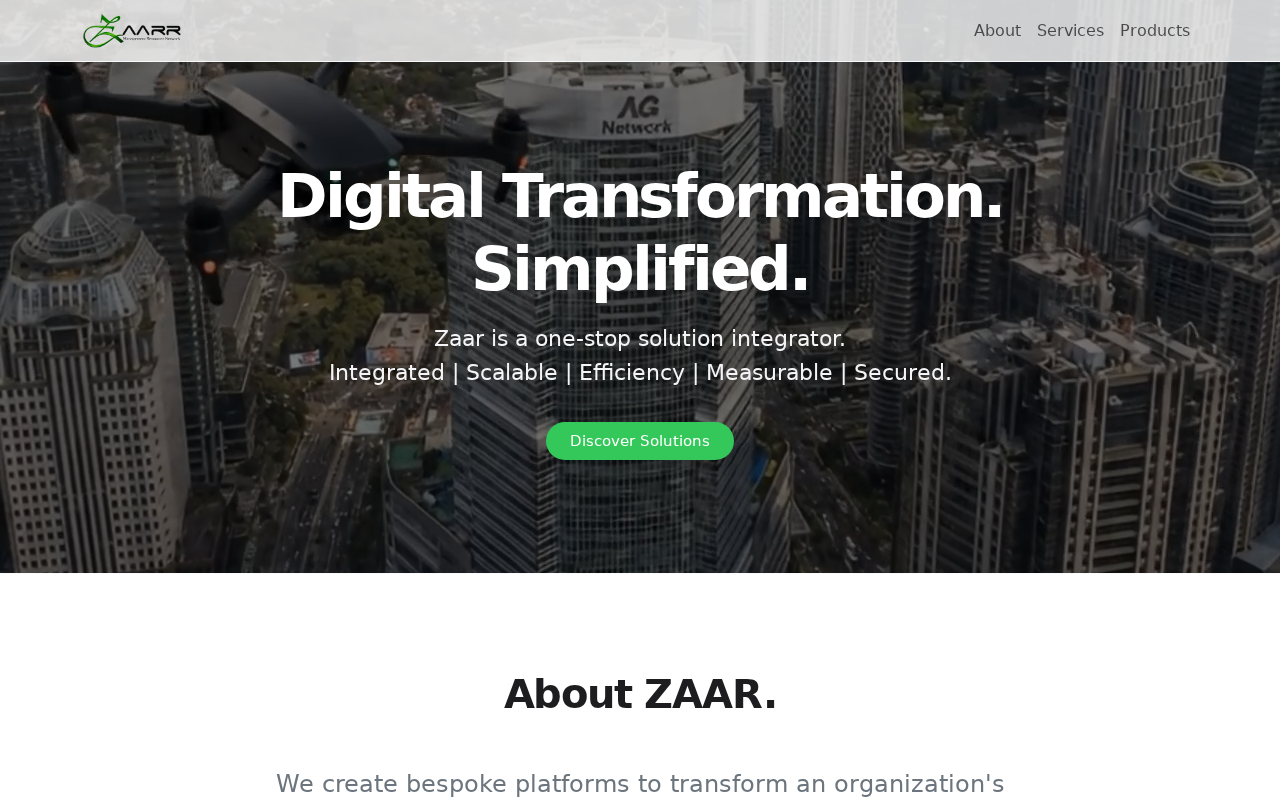
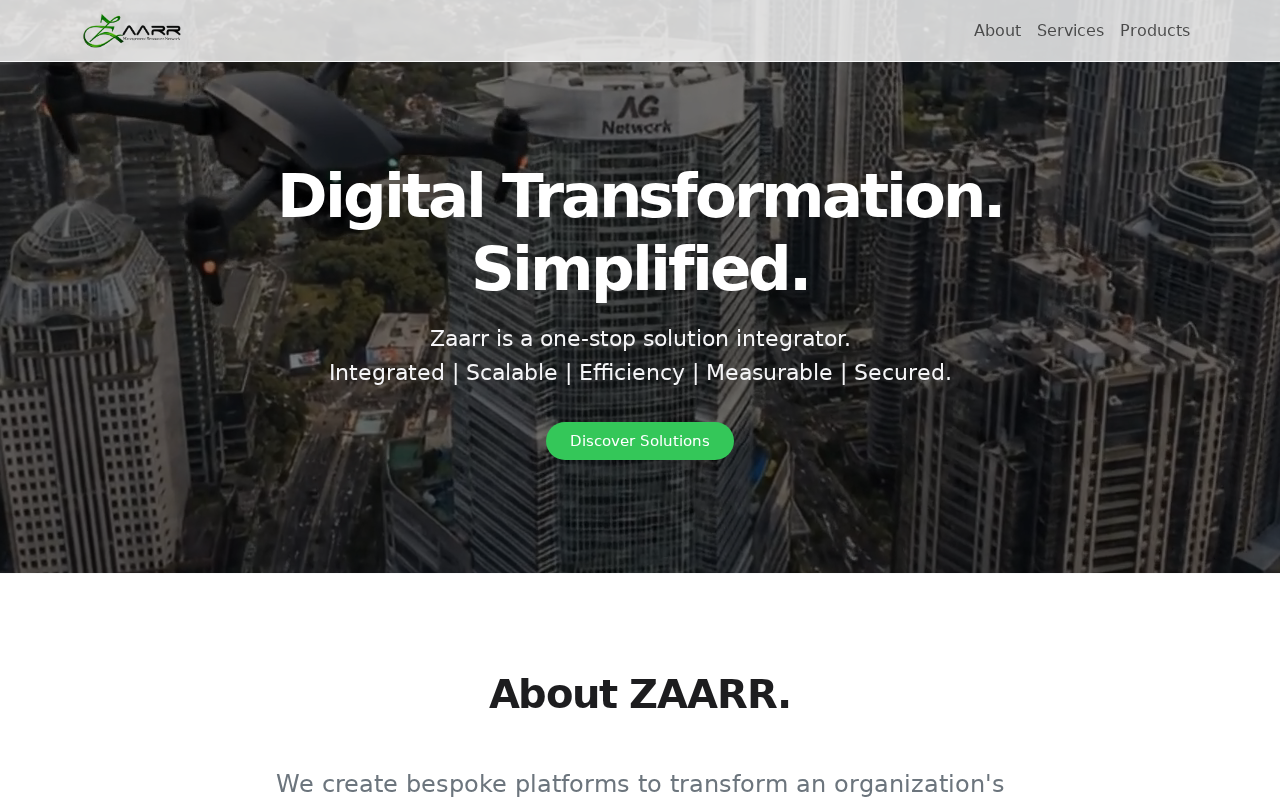
checkpoint: tone down hover effects and fix ZAARR brand spelling

Changed region(s): [[0.375, 0.8438, 0.625, 0.9062], [0.3438, 0.4062, 0.6562, 0.4375]]

diff --git a/src/data/content.js b/src/data/content.js
@@ -1,8 +1,8 @@
-// Sumber copy: https://zaar-mocha.vercel.app/ (diambil apa adanya, jangan diubah/diperbaiki)
+// Sumber copy: https://zaar-mocha.vercel.app/ (dikoreksi ejaan brand menjadi Zaarr / ZAARR sesuai instruksi pemilik project, path aset tetap)
 
 export const site = {
-  title: 'Zaar - Integrated Solutions',
-  logo: { src: '/Resources/Image/logo-zaar.png', alt: 'Zaar Logo', href: '#' },
+  title: 'Zaarr - Integrated Solutions',
+  logo: { src: '/Resources/Image/logo-zaar.png', alt: 'Zaarr Logo', href: '#' },
 }
 
 export const navLinks = [
@@ -18,7 +18,7 @@ export const hero = {
   titleLines: ['Digital Transformation.', 'Simplified.'],
   // Tagline: baris 1 + line break + baris 2
   taglineLines: [
-    'Zaar is a one-stop solution integrator.',
+    'Zaarr is a one-stop solution integrator.',
     'Integrated | Scalable | Efficiency | Measurable | Secured.',
   ],
   cta: { label: 'Discover Solutions', href: '#products' },
@@ -26,7 +26,7 @@ export const hero = {
 
 export const about = {
   id: 'about',
-  title: 'About ZAAR.',
+  title: 'About ZAARR.',
   text: "We create bespoke platforms to transform an organization's physical operations into intuitive data-driven operations with real-time situational awareness. Our management team brings over 20 years of industry experience to address and resolve growing pain points in the security world.",
 }
 
@@ -59,19 +59,19 @@ export const products = {
   ],
   items: [
     {
-      title: 'Zaar Unified Platform',
+      title: 'Zaarr Unified Platform',
       text: 'Open architecture engine integrating sub-systems from across security and energy.',
-      image: { src: '/Resources/Image/unified.png', alt: 'Zaar Unified Platform' },
+      image: { src: '/Resources/Image/unified.png', alt: 'Zaarr Unified Platform' },
     },
     {
-      title: 'Zaar iMOPS™',
+      title: 'Zaarr iMOPS™',
       text: 'Manage incidents, verify data sources, and trigger automated workflows efficiently.',
-      image: { src: '/Resources/Image/imops.png', alt: 'Zaar i-MOPSTM' },
+      image: { src: '/Resources/Image/imops.png', alt: 'Zaarr i-MOPSTM' },
     },
     {
-      title: 'Zaar SmartPatrol',
+      title: 'Zaarr SmartPatrol',
       text: 'Smart guard patrolling features with real-time monitoring and SOS alarm.',
-      image: { src: '/Resources/Image/product-patrol.png', alt: 'Zaar SmartPatrol' },
+      image: { src: '/Resources/Image/product-patrol.png', alt: 'Zaarr SmartPatrol' },
     },
     {
       title: 'Cyber Security',
@@ -88,7 +88,7 @@ export const products = {
 }
 
 export const footer = {
-  brand: 'Zaar.',
+  brand: 'Zaarr.',
   tagline: 'Headquartered in Indonesia • Dedicated to SMART goals.',
-  copyright: '© 2026 Zaar. All rights reserved.',
+  copyright: '© 2026 Zaarr. All rights reserved.',
 }

diff --git a/index.html b/index.html
@@ -3,7 +3,7 @@
   <head>
     <meta charset="UTF-8" />
     <meta name="viewport" content="width=device-width, initial-scale=1.0" />
-    <title>Zaar - Integrated Solutions</title>
+    <title>Zaarr - Integrated Solutions</title>
   </head>
   <body>
     <div id="root"></div>

diff --git a/NOTES.md b/NOTES.md
@@ -1,4 +1,4 @@
-# NOTES — Recreate Zaar Integrated Solutions
+# NOTES — Recreate Zaarr Integrated Solutions
 
 ## Observasi Referensi Situs Asli (Step 2)
 
@@ -19,7 +19,7 @@ Berdasarkan ekstraksi `reference/body.html`, `reference/original.css`, `referenc
 
 ### 3. About Section (`#about`)
 - **Layout**: Latar putih (`#ffffff`), border atas `1px solid #f8f9fa`, padding vertikal `py-5` ganda (section `48px 0` + container `48px 12px`).
-- **Konten**: Judul `About ZAAR.` (`2.5rem` / `40px`, `font-weight: 600`, `margin-bottom: 3rem`), diikuti paragraf di dalam kolom terpusat `col-md-8` (`66.6667%` pada layar `>= 768px`, `100%` di `375px`) dengan ukuran font `fs-4` (`1.5rem` di desktop), `font-weight: 300`, warna `#6c757d`.
+- **Konten**: Judul `About ZAARR.` (`2.5rem` / `40px`, `font-weight: 600`, `margin-bottom: 3rem`), diikuti paragraf di dalam kolom terpusat `col-md-8` (`66.6667%` pada layar `>= 768px`, `100%` di `375px`) dengan ukuran font `fs-4` (`1.5rem` di desktop), `font-weight: 300`, warna `#6c757d`.
 
 ### 4. Services Section (`#services`)
 - **Layout**: Latar `#fbfbfd`, padding vertikal section `48px 0` + container `48px 12px`.
@@ -31,23 +31,56 @@ Berdasarkan ekstraksi `reference/body.html`, `reference/original.css`, `referenc
 - **Grid Produk**:
   - 4 produk pertama berada dalam grid 2 kolom di `>= 768px` (`col-md-6`, gap `24px`) dan 1 kolom di `375px`.
   - Tema warna kartu berselang-seling:
-    1. *Zaar Unified Platform*: Light (`#f5f5f7`)
-    2. *Zaar iMOPS™*: Dark (`#000000`, teks putih)
-    3. *Zaar SmartPatrol*: Light (`#f5f5f7`)
+    1. *Zaarr Unified Platform*: Light (`#f5f5f7`)
+    2. *Zaarr iMOPS™*: Dark (`#000000`, teks putih)
+    3. *Zaarr SmartPatrol*: Light (`#f5f5f7`)
     4. *Cyber Security*: Dark (`#000000`, teks putih)
     5. *Hospital Information System*: Light (`#f5f5f7`), berada di baris bawah terpusat dengan lebar `col-md-8` (`66.6667%` pada `>= 768px`) dan `mt-4` (`24px`).
 - **Kartu Produk (`.apple-product-grid`)**: Tinggi tetap `550px`, `border-radius: 24px`, `padding-top: 3.5rem`, flex column terpusat, teks di atas (`h3` `2.5rem`, `p` `1.1rem` dengan `max-width: 80%`), grup 2 tombol (`Learn more` solid hijau & `Buy` outline hijau, keduanya `<a href="#">` tanpa preventDefault pada situs asli), dan gambar produk di bawah (`.product-img-wrapper` tinggi `300px`, `margin-top: auto`, `object-fit: contain`, `object-position: bottom`).
 
 ### 6. Footer
 - **Layout**: Latar `#f5f5f7`, `padding: 2rem 0`, `border-top: 1px solid #f8f9fa`, rata tengah, warna teks `#86868b`, ukuran `0.875rem` (`14px`).
-- **Konten**: `h5` (`Zaar.`, `20px`, `font-weight: 700`, warna `#212529`, `margin-bottom: 1rem`), tagline `p`, dan copyright `p` (`margin-top: 1.5rem`, `padding-bottom: 1rem`).
+- **Konten**: `h5` (`Zaarr.`, `20px`, `font-weight: 700`, warna `#212529`, `margin-bottom: 1rem`), tagline `p`, dan copyright `p` (`margin-top: 1.5rem`, `padding-bottom: 1rem`).
 
-### 7. Animasi & Efek Hover di `original.css`
-- `.apple-card`: `transition: transform 0.3s ease;` → saat `:hover` menjadi `transform: scale(1.02); box-shadow: 0 10px 30px rgba(0,0,0,0.06);`
-- `.btn-apple` & `.btn-product-primary`: `transition: all 0.3s ease;` → saat `:hover` warna latar berubah dari `#34c759` ke `#2eb350`.
-- `.btn-product-secondary`: `transition: all 0.3s ease;` → saat `:hover` latar menjadi `#34c759` dan teks `white`.
-- `.apple-product-grid`: `transition: transform 0.4s cubic-bezier(0.165, 0.84, 0.44, 1), box-shadow 0.4s ease;` → saat `:hover` naik `transform: translateY(-12px)` dengan bayangan `0 20px 40px rgba(0,0,0,0.12)`.
-- `.product-img-wrapper::after`: overlay gradasi hijau `linear-gradient(to top, rgba(52, 199, 89, 0.75), rgba(52, 199, 89, 0))` dengan `opacity: 0` dan `transition: opacity 0.5s ease;` → saat `.apple-product-grid:hover` berubah menjadi `opacity: 1`.
+---
+
+## Analisa & Penghalusan Efek Hover (Permintaan Pemilik Project)
+
+### 1. Ringkasan Analisa Efek Hover Asli (`reference/original.css`)
+- **Navbar Link (`.nav-link:hover`)**: `color: rgba(0, 0, 0, 0.65)` → `rgba(0, 0, 0, 0.8)` (`0.15s ease-in-out`). Sudah halus dan tenang.
+- **Tombol CTA Hero (`.btn-apple:hover`)**: `#34c759` → `#2eb350` (`0.3s ease`). Sudah halus, namun sebelumnya memakai `transition: all`.
+- **Kartu Services (`.apple-card:hover`)**: Di `original.css` memakai `transform: scale(1.02)` dan `box-shadow: 0 10px 30px rgba(0,0,0,0.06)` dengan `transition: transform 0.3s`. Terasa berlebihan karena kartu layanan bukan elemen yang bisa diklik namun membesar ke segala arah (membuat teks ikut membesar/bergeser), dan perubahan `box-shadow` tidak ikut ditransisikan.
+- **Kartu Products (`.apple-product-grid:hover`)**: Di `original.css` memakai `transform: translateY(-12px)` dan `box-shadow: 0 20px 40px rgba(0,0,0,0.12)`. Lompatan `-12px` ke atas dan bayangan `40px` terlalu agresif saat pengguna hanya melakukan scroll.
+- **Overlay Gambar Products (`.product-img-wrapper::after`)**: Di `original.css` menampilkan `linear-gradient(to top, rgba(52, 199, 89, 0.75), rgba(52, 199, 89, 0))` (`opacity: 0` → `1` saat kartu di-hover). Opasitas hijau `75%` menutupi detail visual gambar produk secara berlebihan.
+- **Tombol Sekunder Products (`.btn-product-secondary:hover` / `Buy`)**: Di `original.css` berubah penuh menjadi `#34c759` dengan teks putih, sehingga saat di-hover terlihat kembar identik dengan tombol utama `Learn more` di sebelahnya.
+
+### 2. Daftar Perubahan Hover yang Diterapkan
+Tanpa mengubah layout, ukuran, atau warna dasar non-hover:
+1. **`src/styles/tokens.css`**:
+   - `--gradient-product-hover`: Opasitas gradasi hijau diturunkan dari `0.75` menjadi `0.12` (`linear-gradient(to top, rgba(52, 199, 89, 0.12), rgba(52, 199, 89, 0))`) agar gambar produk tetap jernih dengan *ambient glow* tipis.
+   - `--shadow-card-hover`: Dihaluskan dari `0 10px 30px rgba(0, 0, 0, 0.06)` menjadi `0 6px 24px rgba(0, 0, 0, 0.05)`.
+   - `--shadow-product-hover`: Dihaluskan dari `0 20px 40px rgba(0, 0, 0, 0.12)` menjadi `0 10px 28px rgba(0, 0, 0, 0.07)`.
+   - `--transition-product` & `--transition-gradient`: Diselaraskan ke `0.35s`.
+2. **`src/components/Services.css`**:
+   - `.apple-card:hover`: Mengganti `transform: scale(1.02)` menjadi `transform: translateY(-2px)`.
+   - `.apple-card`: Menambahkan `box-shadow var(--transition-base)` ke dalam `transition`.
+3. **`src/components/Products.css` & `src/components/Hero.css`**:
+   - `.apple-product-grid:hover`: Mengurangi angkatan dari `translateY(-12px)` menjadi `translateY(-4px)`.
+   - `.btn-product-secondary:hover`: Menggunakan latar tint hijau lembut (`rgba(52, 199, 89, 0.12)` di tema terang dan `rgba(48, 209, 88, 0.15)` di `.dark-theme`) dengan teks tetap hijau agar hierarki visual dengan tombol `Learn more` tetap jelas.
+   - `.btn-apple`, `.btn-product-primary`, `.btn-product-secondary`: Mengganti `transition: all` menjadi properti spesifik (`background-color`, `color`, `border-color`).
+
+---
+
+## Koreksi Ejaan Nama Perusahaan (`ZAARR` / `Zaarr`)
+
+Sesuai instruksi pemilik project, ejaan nama perusahaan pada teks UI diperbaiki menjadi **ZAARR** / **Zaarr** (dobel R) di `src/data/content.js` dan `index.html`:
+- `<title>` (`index.html` & `site.title`): `Zaarr - Integrated Solutions`
+- `site.logo.alt`: `Zaarr Logo` (path `/Resources/Image/logo-zaar.png` **tidak diubah** agar tidak 404)
+- `hero.taglineLines[0]`: `Zaarr is a one-stop solution integrator.`
+- `about.title`: `About ZAARR.`
+- Judul & `alt` produk di `products.items`: `Zaarr Unified Platform`, `Zaarr iMOPS™` (`alt: Zaarr i-MOPSTM`), `Zaarr SmartPatrol` (seluruh path gambar `/Resources/Image/*.png` **tidak diubah**)
+- `footer.brand`: `Zaarr.`
+- `footer.copyright`: `© 2026 Zaarr. All rights reserved.`
 
 ---
 
@@ -85,18 +118,6 @@ Langkah-langkah deploy manual ke Vercel:
 6. `f40dbd1` — `feat: about and services`
 7. `6babcb8` — `feat: products and footer`
 8. `b4a0de2` — `fix: match original at all breakpoints`
-
-### 3. Asumsi & Keputusan yang Diambil
-- **Tombol "Learn more" & "Buy"**: Menggunakan `<a href="#">` dummy tanpa `e.preventDefault()`, sama persis dengan perilaku situs asli yang menggulung ke atas saat diklik.
-- **Teks Fallback Video & Path Aset**: Diambil langsung dari `src/data/content.js` tanpa perubahan (termasuk teks bahasa Jawa `"Browser sampeyan gak support video tag."` dan nama file `cybersecuirty.png`).
-- **Hamburger Menu di Mobile**: Diimplementasikan pada layar `< 992px` (768px & 375px) menggunakan state React lokal karena situs asli memiliki tombol hamburger `.navbar-toggler` yang membuka/menutup `.navbar-collapse`.
-- **Font Ikon (`bootstrap-icons`)**: File `reference/raw/bootstrap-icons.woff2` disalin ke `public/fonts/bootstrap-icons.woff2` dan didaftarkan lewat `@font-face` di `src/styles/tokens.css` sesuai instruksi Step 3, sehingga ikon layanan (`bi-cpu`, `bi-sliders`, `bi-person-gear`) tampil identik 1:1 tanpa request eksternal atau error 404.
-- **Layout Produk**: Mengikuti struktur asli di mana 4 produk pertama tampil dalam grid 2 kolom (`col-md-6`) dengan tema terang/gelap berselang-seling, dan produk ke-5 (*Hospital Information System*) tampil terpusat dengan lebar `col-md-8`.
-
-### 4. Perbandingan Visual & Selisih
-- **Tinggi halaman penuh (`full-1280.png`, `full-768.png`, `full-375.png`)**:
-  - `1280px`: Asli `1280 x 3847` vs Lokal `1280 x 3847` (**selisih 0px / 0.00%**, jauh di bawah batas maksimal 2%).
-  - `768px`: Asli `768 x 4177` vs Lokal `768 x 4177` (**selisih 0px / 0.00%**).
-  - `375px`: Asli `375 x 5983` vs Lokal `375 x 5983` (**selisih 0px / 0.00%**).
-- **Semua screenshot per section** (`nav`, `about`, `services`, `products`, `footer` di 1280/768/375) memiliki dimensi piksel yang **100% identik** (`0px` selisih ukuran), dan untuk section statis (`about-1280`, `about-768`, `services-375`, `products-1280`, `footer-1280`, `footer-768`, `footer-375`) bahkan identik byte-for-byte.
-- **Selisih visual yang masih ada**: Hanya perbedaan frame pada background `<video>` di Hero (dan pantulan blur di balik `Navbar` yang bersifat `fixed` dengan `backdrop-filter: blur(20px)`) karena video berputar secara real-time (`autoplay loop`) saat screenshot diambil.
+9. `8f5814b` — `docs: add manual deploy steps and final report in NOTES.md`
+10. `6635790` — `style: refine hover effects to be calmer and smoother`
+11. Checkpoint commit — `checkpoint: tone down hover effects and fix ZAARR brand spelling`
